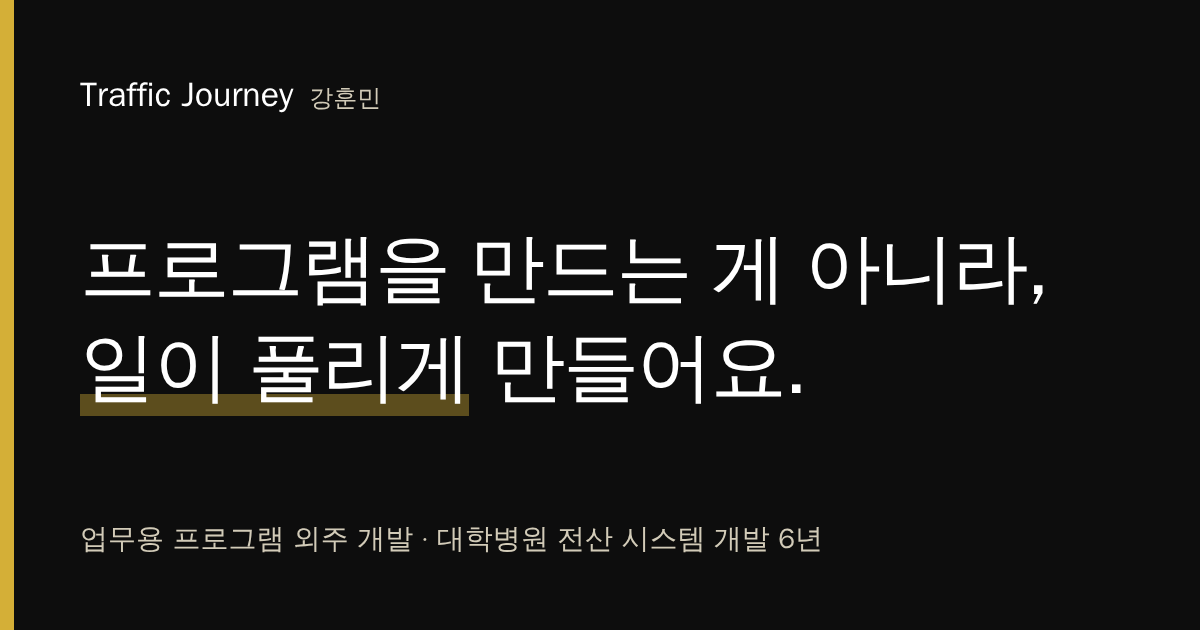
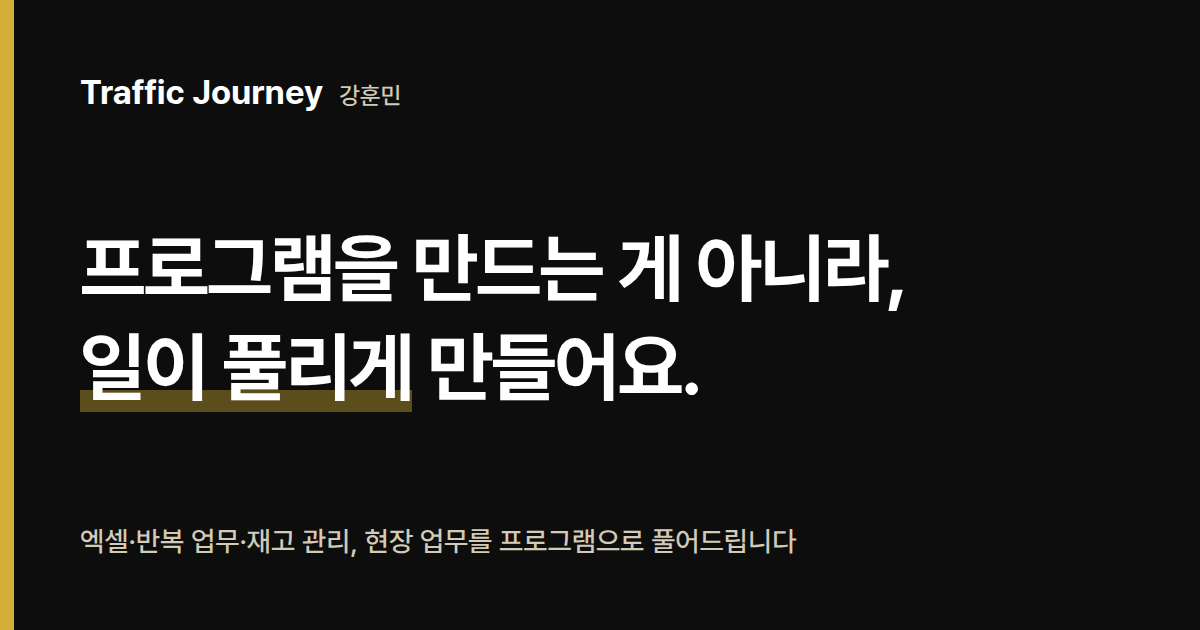
Reframe copy around customer problems, move hospital background to evidence (#7)
Claude-Session: https://claude.ai/code/session_017e8Yug3XF6Ytg2sYvvu9kY

diff --git a/index.html b/index.html
@@ -4,7 +4,7 @@
 <meta charset="utf-8">
 <meta name="viewport" content="width=device-width, initial-scale=1">
 <title>Traffic Journey · 강훈민 — 업무용 프로그램 외주 개발</title>
-<meta name="description" content="대학병원 전산 시스템 개발 6년. 대용량 데이터 조회, 반복 업무 자동화, 업무용 웹앱을 현장에서 실제로 쓰일 만큼만 만들어 드려요.">
+<meta name="description" content="엑셀·반복 업무·재고 관리, 현장 업무를 프로그램으로 풀어드립니다. 현장에서 실제로 쓰일 만큼만 만들어 드려요.">
 <meta property="og:title" content="Traffic Journey · 강훈민">
 <meta property="og:description" content="프로그램을 만드는 게 아니라, 일이 풀리게 만들어요.">
 <meta property="og:type" content="website">
@@ -55,17 +55,18 @@ h1{font-size:34px !important}
 </nav>
 
 <header style="max-width: 1080px; margin: 0 auto; padding: 72px 24px 88px; display: flex; flex-direction: column; gap: 28px">
-<div style="font-size: 15px; color: #d2cbb8">외주 개발 · 대학병원 전산 시스템 개발 6년</div>
+<div style="font-size: 15px; color: #d2cbb8">엑셀·반복 업무·재고 관리, 현장 업무를 프로그램으로 풀어드립니다</div>
 <h1 style="margin: 0; font-size: 46px; line-height: 1.3; font-weight: 700; letter-spacing: -0.03em">프로그램을 만드는 게 아니라,<br><span style="box-shadow: inset 0 -14px 0 #d4af3766">일이 풀리게</span> 만들어요.</h1>
 <p style="margin: 0; max-width: 560px; color: #d2cbb8">버벅이던 엑셀, 매일 반복하는 클릭, 찾기 힘든 창고 물건까지. 현장에서 <span style="white-space: nowrap">실제로 쓰일 만큼만 만들어 드려요.</span></p>
+<p style="margin: 0; max-width: 560px; border-left: 3px solid #d4af37; padding-left: 16px; color: #ffffff">요즘은 자영업 사장님들이 일하시는 모습을 가까이서 자주 보고 있어요. 어디에 IT가 들어가면 일이 편해질지, 늘 그걸 찾으면서 다녀요.</p>
 <div style="display: flex; flex-wrap: wrap; gap: 12px">
 <a href="#contact" style="display: inline-flex; align-items: center; min-height: 48px; padding: 0 22px; border-radius: 8px; background: #d4af37; color: #0d0d0d; text-decoration: none; font-weight: 700">상담 문의하기</a>
 <a href="resume.pdf" download="강훈민_이력서.pdf" style="display: inline-flex; align-items: center; min-height: 48px; padding: 0 22px; border-radius: 8px; border: 1px solid #4d4738; color: #ffffff; text-decoration: none; font-weight: 500">이력서 PDF 받기</a>
 </div>
 <div style="display: grid; grid-template-columns: repeat(auto-fit, minmax(200px, 1fr)); gap: 12px; margin-top: 16px">
-<div style="border: 1px solid #2f2b22; border-radius: 10px; padding: 18px 20px"><div style="font-family: 'IBM Plex Mono', monospace; font-size: 30px; font-weight: 600; color: #d4af37">6년</div><div style="font-size: 14px; color: #d2cbb8">대학병원 전산 시스템 개발</div></div>
-<div style="border: 1px solid #2f2b22; border-radius: 10px; padding: 18px 20px"><div style="font-family: 'IBM Plex Mono', monospace; font-size: 30px; font-weight: 600; color: #d4af37">4곳</div><div style="font-size: 14px; color: #d2cbb8">병원 시스템 오픈과 현장 지원</div></div>
 <div style="border: 1px solid #2f2b22; border-radius: 10px; padding: 18px 20px"><div style="font-family: 'IBM Plex Mono', monospace; font-size: 30px; font-weight: 600; color: #d4af37">2초</div><div style="font-size: 14px; color: #d2cbb8">50만 건 데이터 필터 응답</div></div>
+<div style="border: 1px solid #2f2b22; border-radius: 10px; padding: 18px 20px"><div style="font-family: 'IBM Plex Mono', monospace; font-size: 30px; font-weight: 600; color: #d4af37">6가지</div><div style="font-size: 14px; color: #d2cbb8">인프라 구성안 비교 후 제안</div></div>
+<div style="border: 1px solid #2f2b22; border-radius: 10px; padding: 18px 20px"><div style="font-family: 'IBM Plex Mono', monospace; font-size: 30px; font-weight: 600; color: #d4af37">즉시</div><div style="font-size: 14px; color: #d2cbb8">장비 오류 텔레그램 알림</div></div>
 </div>
 </header>
 </div>
@@ -157,12 +158,8 @@ h1{font-size:34px !important}
 <p style="margin: 0; font-size: 22px; line-height: 1.5; font-weight: 700; letter-spacing: -0.02em">꼭 필요한 만큼만,<br>실제로 쓰일 만큼만.</p>
 </div>
 <div style="flex: 2 1 480px; display: flex; flex-direction: column; gap: 16px">
-<p style="margin: 0">오랫동안 저는 코드만 짜던 사람이었어요. 대학병원 전산실에서는 쏟아지는 요구사항을 프로그램으로 옮겼고, 그 뒤로는 제게 필요한 프로그램을 직접 만들어 썼어요. 남이 겪는 문제를 제 코드로 풀어 드리기 시작한 건 최근입니다.</p>
-<p style="margin: 0">그러면서 생각이 바뀌더라고요. 중요한 건 코드가 아니라 문제가 실제로 풀리느냐죠. 병원에서 끝도 없는 요구사항을 받아 만들면서도 느꼈어요. 많이 만든다고 일이 편해지는 건 아니더라고요. 그래서 어떤 기술을 쓸지, 어디까지 만들지는 주어진 상황 안에서 가장 알맞게 고릅니다.</p>
-<div style="background: #ffffff; border: 1px solid #e3dfd3; border-radius: 12px; padding: 20px 22px; display: flex; flex-direction: column; gap: 6px">
-<div style="font-size: 13px; font-weight: 600; color: #5f5a4e">현장에서</div>
-<p style="margin: 0">요즘은 자영업 사장님들이 일하시는 모습을 가까이서 자주 보고 있어요. 어디에 IT가 들어가면 일이 편해질지, 늘 그걸 찾으면서 다녀요.</p>
-</div>
+<p style="margin: 0">오랫동안 저는 코드만 짜던 사람이었어요. 여러 사람이 넘겨받는 복잡한 업무 흐름을 프로그램으로 옮기는 일을 했고, 그 뒤로는 제게 필요한 프로그램을 직접 만들어 썼어요. 남이 겪는 문제를 제 코드로 풀어 드리기 시작한 건 최근입니다.</p>
+<p style="margin: 0">그러면서 생각이 바뀌더라고요. 중요한 건 코드가 아니라 문제가 실제로 풀리느냐죠. 끝도 없는 요구사항을 받아 만들면서도 느꼈어요. 많이 만든다고 일이 편해지는 건 아니더라고요. 그래서 어떤 기술을 쓸지, 어디까지 만들지는 주어진 상황 안에서 가장 알맞게 고릅니다.</p>
 </div>
 </section>
 
@@ -193,6 +190,7 @@ h1{font-size:34px !important}
 <div id="contact" style="background: #0d0d0d; color: #ffffff">
 <div style="max-width: 1080px; margin: 0 auto; padding: 80px 24px; display: flex; flex-direction: column; gap: 20px">
 <h2 style="margin: 0; font-size: 32px; line-height: 1.4; font-weight: 700; letter-spacing: -0.02em">지금 겪고 계신 문제,<br>편하게 말씀해 주세요.</h2>
+<p style="margin: 0; color: #d2cbb8">다산 지식산업센터에 있어서, 근처라면 직접 찾아뵙고 이야기 나눌 수 있어요.</p>
 <div style="display: flex; flex-wrap: wrap; gap: 16px; align-items: center">
 <a href="mailto:kery027@gmail.com" style="display: inline-flex; align-items: center; min-height: 48px; padding: 0 22px; border-radius: 8px; background: #d4af37; color: #0d0d0d; text-decoration: none; font-weight: 700">메일 보내기</a>
 <a href="tel:01029014977" style="display: inline-flex; align-items: center; min-height: 48px; padding: 0 22px; border-radius: 8px; border: 1px solid #4d4738; color: #ffffff; text-decoration: none; font-weight: 500">전화하기 010-2901-4977</a>
